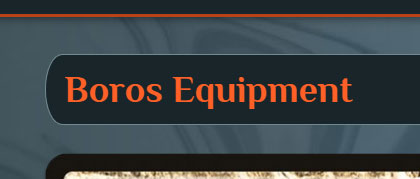
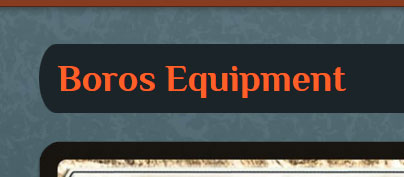
Updated user manual screenshots

diff --git a/src/views/Manual.vue b/src/views/Manual.vue
@@ -11,7 +11,7 @@
 			<ol>
 				<li><a href="#m-intro">Introduction</a></li>
 				<li><a href="#m-app-header">App Header</a></li>
-				<li><a href="#m-create-deck">Create Deck Page</a></li>
+				<li><a href="#m-create-deck">“Create Deck” Page</a></li>
 				<li>
 					<a href="#m-deck-pages">Deck Pages</a>
 					<ol>
@@ -35,35 +35,30 @@
 		</nav>
 
 		<div id="m-intro" class="the-manual">
-			<p>This page explains how to use this app, <router-link :to="{name: 'home'}">MTG Deck Builder</router-link> by Iristorm Design.</p>
+			<p>This page explains how to use this web app, <router-link :to="{name: 'home'}">MTG Deck Builder</router-link> by Iristorm Design.</p>
 			<p>(If you need help on how to play <i>Magic</i> itself, refer to the game rules at the <a href="https://magic.wizards.com/en/game-info/gameplay/rules-and-formats/rules" target="_blank" rel="noopener noreferrer">official <i>Magic</i> website</a> or the <a href="https://mtg.fandom.com/wiki/Portal:Rules" target="_blank" rel="noopener">Fandom MTG Wiki</a>.)</p>
+			<p>Note that some of the screenshots in this user manual show old versions of MTG Deck Builder which may look slightly different from the current version, but look similar enough to keep those screenshots in use here.</p>
 
 			<h3 id="m-app-header">App Header</h3>
-			<p>
-				<img class="screenshot"
-					srcset="@/img/manual-app-header.jpg 1x, @/img/manual-app-header-2x.jpg 2x"
-					src="@/img/manual-app-header.jpg" width="658" height="23"
-					alt="Snippet of app header" title="Screenshot" loading="lazy" />
-			</p>
 			<p>At the top of any page on MTG Deck Builder is the app header, which includes the following buttons:</p>
 			<ul>
-				<li><strong>User Manual</strong> — Takes you to this page you’re reading right now.</li>
+				<li><strong>User Manual</strong> — Takes you to the page you’re reading right now.</li>
 				<li><strong>Create Deck</strong> — Takes you to the <a href="#m-create-deck">Create Deck</a> page.</li>
-				<li><strong>Open Deck</strong> — Makes a menu appear with an alphabetically ordered list of the names of all your unopened decks stored in the app. Click any deck name in the list to open that <a href="#m-deck-pages">deck’s page</a>. (If you’ve deleted all decks in the app, the Open Deck button becomes temporarily disabled.)</li>
+				<li><strong>Open Deck</strong> — Makes a menu appear with an alphabetically ordered list of the names of all your unopened decks stored in the app. Beside each deck name are that deck’s mana colors. Click on any deck name in the list to open that <a href="#m-deck-pages">deck’s page</a>. (If all decks in the app have been deleted, the Open Deck button becomes temporarily disabled.)</li>
 				<li><strong>Contact</strong> — Takes you to the Contact page.</li>
 			</ul>
 
-			<h3 id="m-create-deck">Create Deck Page</h3>
-			<p>The Create Deck page is where you can start on a new deck or import a deck data file. Either of these methods will add the deck to the menu that lists all of your decks stored in the app, accessible from the Open Deck button in the <a href="#m-app-header">app header</a>.</p>
-			<p>If you choose to start a new deck, you first have to enter a name for it, and then you’ll be taken to an empty <a href="#m-deck-pages">deck page</a> for it. If you happen to submit a deck name that another one of your decks in the app already has, you’ll be asked to enter a different name instead.</p>
-			<p>Alternatively, if you have a <a href="#m-deck-data-files">deck data file</a> for MTG Deck Builder, you can open it through the app to import its deck data, and then a deck page will be instantly produced from it.</p>
+			<h3 id="m-create-deck">“Create Deck” Page</h3>
+			<p>The Create Deck page is where you can start on a new deck or import a <a href="#m-deck-data-files">deck data file</a>. Either method will add the deck to the menu that lists all your decks stored in the app, accessible from the Open Deck button in the <a href="#m-app-header">app header</a>.</p>
+			<p>If you choose to start a new deck, you first give it a name, and then you’ll be taken to an empty <a href="#m-deck-pages">deck page</a> for that deck. (If you happen to submit a name that another one of your decks in the app already has, you’ll be asked to give a different name instead.)</p>
+			<p>Alternatively, if you have a deck data file for MTG Deck Builder, you can open it on the Create Deck page to import its data, and then a deck page will be instantly produced from it.</p>
 
 			<h3 id="m-deck-pages">Deck Pages</h3>
 			<p>Deck pages are where you view and edit the contents of your <i>Magic</i> decks, the main focus of MTG Deck Builder. Every deck you have in the app has its own deck page.</p>
 			<p>
 				<img class="screenshot"
 					srcset="@/img/manual-deck-page.jpg 1x, @/img/manual-deck-page-2x.jpg 2x"
-					src="@/img/manual-deck-page.jpg" width="658" height="471"
+					src="@/img/manual-deck-page.jpg" width="658" height="444"
 					alt="Snippet of a deck page on MTG Deck Builder" title="Screenshot" loading="lazy" />
 			</p>
 			<p>A deck page contains the following sections, listed in the order of their position on the page from top to bottom, left to right: <a href="#m-deck-name">deck name</a>, <a href="#m-deck-statistics">deck statistics</a>, <a href="#m-card-image">card image</a>, <a href="#m-card-list">card list</a>, <a href="#m-card-quantities">card quantities</a>, <a href="#m-card-adder">card adder</a>, <a href="#m-card-sorter">card sorter</a>, and <a href="#m-deck-actions">deck actions</a>. Each of these is going to be explained in greater detail.</p>
@@ -72,7 +67,7 @@
 				<p>
 					<img class="screenshot float-left"
 						srcset="@/img/manual-deck-name.jpg 1x, @/img/manual-deck-name-2x.jpg 2x"
-						src="@/img/manual-deck-name.jpg" width="265" height="113"
+						src="@/img/manual-deck-name.jpg" width="266" height="117"
 						alt="Snippet of deck name link" title="Screenshot" loading="lazy" />
 				</p>
 				<h4>Deck Name</h4>
@@ -93,7 +88,7 @@
 					<li><strong>Last Edited</strong> — Shows the date and time when the deck was most recently modified (or created, if it’s a new deck). The actions of <a href="#m-card-adder">adding a new card</a>, <a href="#m-card-quantities">adjusting a card’s quantity</a>, and <a href="#m-deck-name">renaming the deck</a> count as modifying the deck. (<a href="#m-card-image">Viewing another card</a> and <a href="#m-card-sorter">sorting the card list</a> don’t count.)</li>
 					<li><strong>Card Names</strong> — Shows the total number of card names among all cards in the deck.</li>
 					<li><strong>Total Cards</strong> — Shows the total number of cards in the deck. When the total is fewer than 60 (which is the minimum limit according to <i>Magic</i>’s standard deck-building rules), a warning symbol (⚠) appears beside the number to signal this.</li>
-					<li><strong>More Statistics</strong> — Clicking this button takes you to the deck’s <a href="#m-more-stats-pages">“More Statistics” page</a> where you can analyze even more data about your deck.</li>
+					<li><strong>More Stats</strong> — Clicking this button takes you to the deck’s <a href="#m-more-stats-pages">“More Statistics” page</a> where you can analyze even more information about your deck.</li>
 				</ul>
 			</section>
 			<section id="m-card-image">
@@ -112,7 +107,7 @@
 				<p>
 					<img class="screenshot"
 						srcset="@/img/manual-card-list.jpg 1x, @/img/manual-card-list-2x.jpg 2x"
-						src="@/img/manual-card-list.jpg" width="658" height="219"
+						src="@/img/manual-card-list.jpg" width="658" height="339"
 						alt="Snippet of card list" title="Screenshot" loading="lazy" />
 				</p>
 				<p>This is the list of the cards contained in the currently open deck, where each card is represented by a wide button. You can click on any of these card buttons to have that card displayed in the <a href="#m-card-image">card image</a> section.</p>
@@ -158,14 +153,14 @@
 						src="@/img/manual-card-adder.jpg" width="658" height="141"
 						alt="Snippet of card adder" title="Screenshot" loading="lazy" />
 				</p>
-				<p>This is a simple form that contains a text input where you can enter a card’s name, and then you click the “Add Card” button to insert that card into the deck.</p>
+				<p>This is a basic form where you can enter a card’s name in the text box, then click on the Add Card button to insert that card into your deck. Things of note about the card adder:</p>
 				<ul>
-					<li>When you start typing a couple of letters of a name in the card adder, an auto-complete list appears with card suggestions based on those initial letters.</li>
-					<li>If the card name you entered is invalid, you’ll be notified.</li>
-					<li>The card adder won’t add a card that already exists by that name in the deck. If you’d want to add duplicates of a card of a particular name, instead increase that card’s <a href="#m-card-quantities">quantity</a>.</li>
-					<li>When submitting a card name in the card adder, if that card has been printed in multiple <i>Magic</i> sets, the newest print will always be the one taken.</li>
-					<li>Newly added cards are put at the bottom of the card list, though they can be rearranged later with the <a href="#m-card-sorter">card sorter</a>.</li>
-					<li>If you want to add a randomly chosen card to your deck, enter the code <code>(random)</code> (including the parentheses) as the card name. Depending on the web browser you’re using, “(random)” may also appear as a selectable option when the card adder input has focus.</li>
+					<li>Whenever you start typing letters of a card’s name into the text box, a small list of card suggestions based on those initial letters will appear.</li>
+					<li>Newly added cards will be put at the bottom of the <a href="#m-card-list">card list</a>, though you can use the <a href="#m-card-sorter">card sorter</a> afterward to rearrange them.</li>
+					<li>When submitting a card name, if that card has been printed in multiple <i>Magic</i> sets, the one from the newest set will be retrieved.</li>
+					<li>The card adder won’t add a card of a certain name that already exists by that name in the deck. If you’d want to add duplicates of a card, increase that card’s <a href="#m-card-quantities">quantity</a> instead.</li>
+					<li>Only valid names of <i>Magic</i> cards can add cards to the deck. If a name you submit is invalid, you’ll be notified of that.</li>
+					<li>If you want to add a randomly chosen Modern-tournament-legal card, enter the code “(random)” (notice the parentheses) as the card name. On most web browsers, “(random)” will also appear as an option you can click on when the card adder’s text box has focus.</li>
 				</ul>
 			</section>
 			<section id="m-card-sorter">
@@ -213,8 +208,8 @@
 			<p>In almost every category’s table, each row indicates the following:</p>
 			<ul>
 				<li>The name of a certain property in the first column.</li>
-				<li>The count (“CT.”) of the cards of the given property in the second column.</li>
-				<li>The percentage of cards of the given property relative to the total deck in the third column.</li>
+				<li>The count (“CT.”) of cards of the given property in the second column.</li>
+				<li>The percentage of cards of the given property from the total deck in the third column.</li>
 			</ul>
 			<p>The exception to this table layout is the Power/Toughness category, which has columns for cards’ power and toughness instead of count and percentage.</p>
 			<p>The Miscellaneous category table tallies up cards that have any of the following characteristics:
@@ -228,7 +223,7 @@
 					<li>Double-faced — Cards that are double-faced (have a second card frame on their back side instead of the usual card back) <em>or</em> cards that are split (have two small card frames on the front side).</li>
 				</ul>
 			</p>
-			<p>Single cards can be counted in multiple properties within a category. For example, a card that has the type “artifact creature” is considered both a creature <em>and</em> an artifact in the Types category table. Therefore, the sum of all values of a category may equal a total count greater than the deck’s total cards and a percentage greater than 100%.</p>
+			<p>Single cards can be counted in multiple properties within a category. For example, a card that has the type “artifact creature” is considered both a creature and an artifact in the Types category table. Therefore, the sum of all values of a category may equal a total count greater than the deck’s total cards and a percentage greater than 100%.</p>
 
 			<h3 id="m-storage-of-deck-data">Storage of Deck Data</h3>
 			<p>The data for your customized decks in MTG Deck Builder are stored only locally in the web browser you’re using, not over the internet. This means there’s no need to log onto a personal account to save your decks. It also means other users of MTG Deck Builder on their own web browsers won’t be able to see your decks, or you theirs—except by sharing <a href="#m-deck-data-files">deck data files</a>.</p>
@@ -236,11 +231,11 @@
 			<p>To delete all your data in MTG Deck Builder at once, click the “Clear Stored Data” link that’s in the app footer on any page. Before the data gets erased, you’ll be asked to confirm you want to go ahead with this irreversible process. After the data has been cleared, the two sample decks will be restored in their original states.</p>
 
 			<h4 id="m-deck-data-files">Deck Data Files</h4>
-			<p>You can export and import deck data files, which are files that contain app data for particular decks. You might want to export a deck data file for one of these reasons:</p>
+			<p>MTG Deck Builder has functions for exporting and importing deck data files, which are files that contain app data for particular decks. You might want to export a deck data file for one of these reasons:</p>
 			<ul>
-				<li>Send the file to other users of MTG Deck Builder to show them the deck you’ve made.</li>
+				<li>Send the data file to other users of MTG Deck Builder to show them the deck you’ve made.</li>
 				<li>Move your deck from one web browser to another (if you’re switching your preferred browser, for example).</li>
-				<li>Store the file as a backup copy of your deck in case of an event that your computer/device or browser somehow causes you to lose access to your main deck data in the app.</li>
+				<li>Store the data file as a backup copy of your deck in case your computer/device or browser somehow causes you to lose your main deck data in the app.</li>
 
 			</ul>
 			<p>To produce a data file of a deck, go to the <a href="#m-deck-pages">deck’s page</a>, and then from the <a href="#m-deck-actions">deck actions</a> menu, select the “Export” option.</p>

diff --git a/src/sass/_variables.scss b/src/sass/_variables.scss
@@ -70,7 +70,7 @@ $border-radius-group: $lhse*.5;
 $layers: card-list-item-focus-within, card-list-item-hover, app-header, update-notif, bg-overlay, above-overlay, app-menu-toggler, card-overlay;
 $transition-duration-standard: .25s;
 $border-sections: 1px solid $color-section-border;
-$border-image: 2px solid darken($color-group-bg, 6.25%);
+$border-image: 2px solid $color-heading-bg;
 $border-top-width-button: 0;
 $border-bottom-width-button: 2px;
 $height-app-header: $lhse*1.6667;

diff --git a/src/sass/page-more-stats.scss b/src/sass/page-more-stats.scss
@@ -5,7 +5,7 @@ $color-scroll-limiter-shadow: darken($color-mythic-orange, 12.5%);
 .more-stats {
 	max-width: calc(100% - $lhse*2);
 	width: max-content;
-	margin: 0 auto $lhse;
+	margin: $lhse auto;
 	display: flex; // This prevents a weird CSS margin-shifting glitch when clicking the "Card List" button.
 	flex-direction: column;
 

diff --git a/src/sass/_card-list.scss b/src/sass/_card-list.scss
@@ -136,7 +136,6 @@ $width-qty-column: 2.5em;
 		position: relative;
 		background: rgba($color-group-bg, .75);
 		border-radius: $border-radius-button;
-		// filter: saturate(0);
 		
 		&:hover,
 		&:focus-within {

diff --git a/src/sass/page-create-deck.scss b/src/sass/page-create-deck.scss
@@ -12,7 +12,7 @@
 	}
 	.new-deck,
 	.import-data {
-		border: $border-sections;
+		border: 2px solid $color-heading-bg;
 		padding: $lhse*.5;
 		border-radius: $border-radius-group*.5;
 	}
